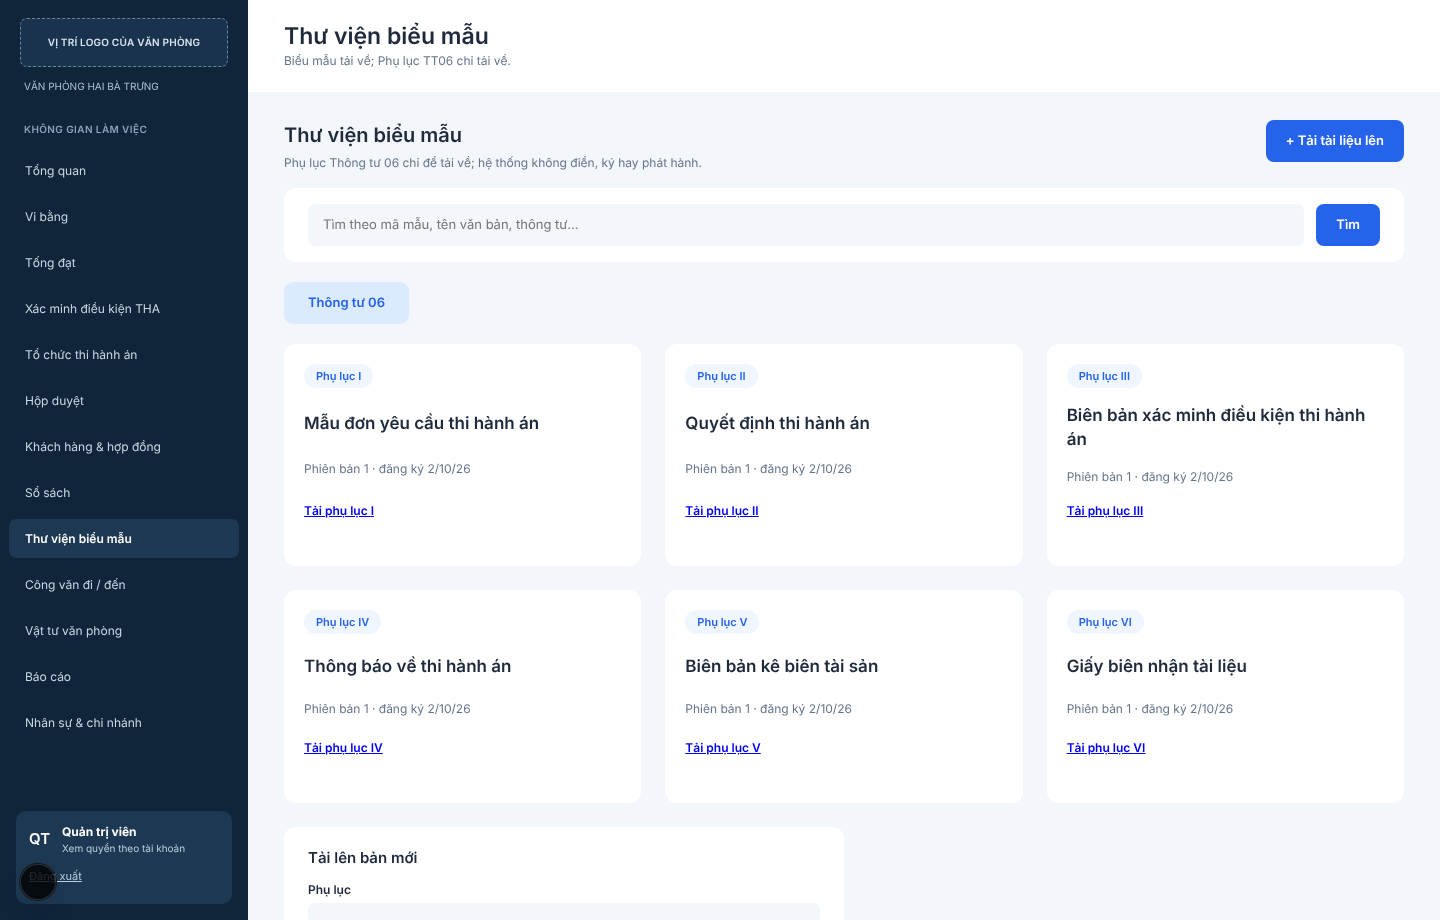
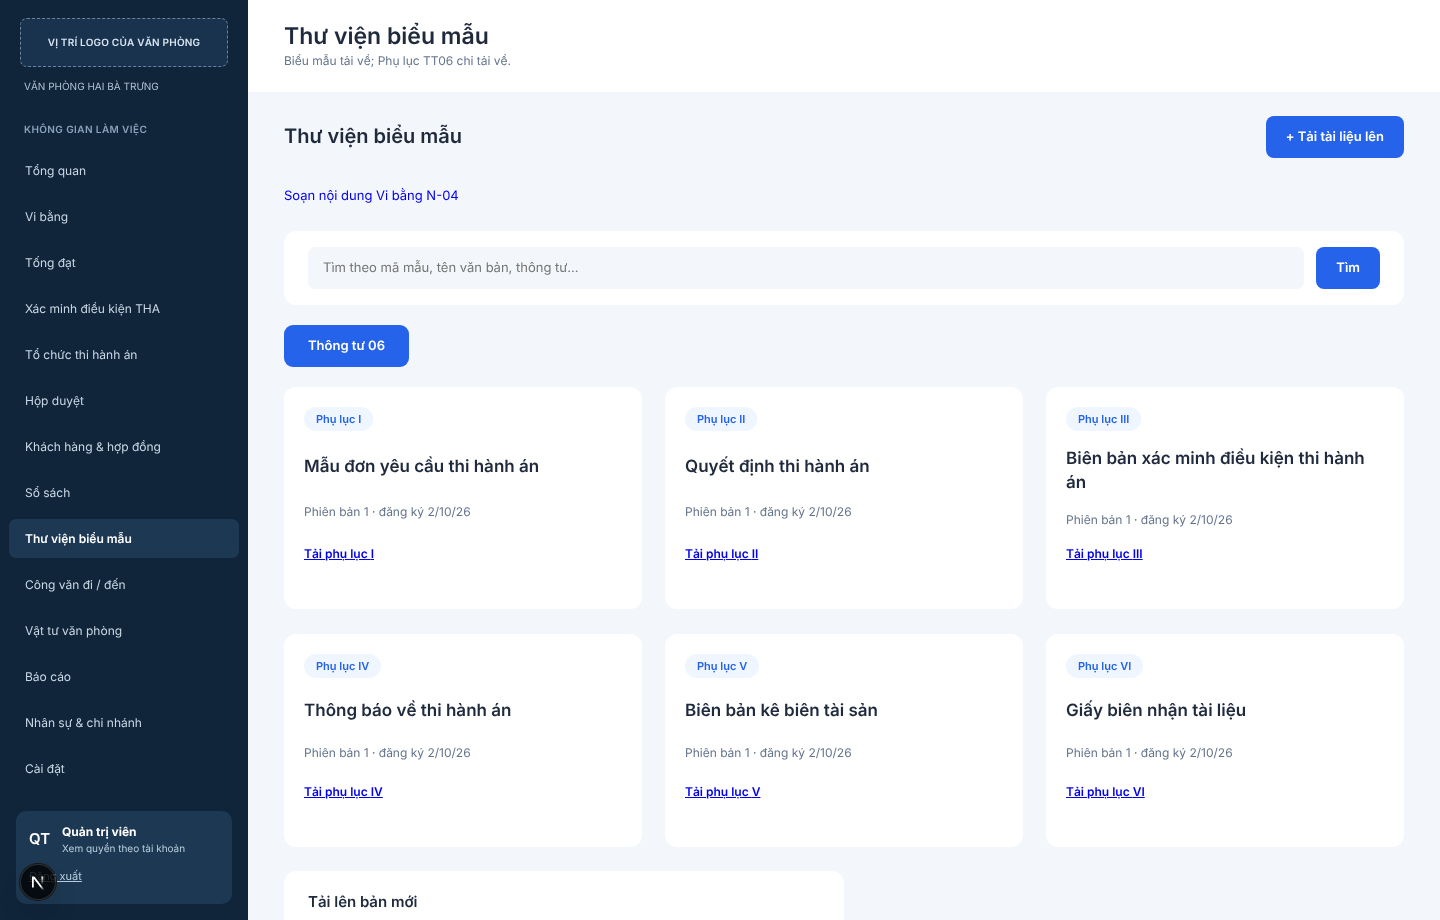
fix(web): khớp số đo Figma lô 3 (biểu mẫu, công văn, vật tư, báo cáo) và thêm thẻ số liệu báo cáo (#128)
Claude-Session: https://claude.ai/code/session_01TuayhBfCeqvzC4WVhHb6qe

diff --git a/apps/web/app/bao-cao/page.tsx b/apps/web/app/bao-cao/page.tsx
@@ -1,4 +1,5 @@
 import Link from 'next/link';
+import { StatCard } from '../../components/StatCard';
 import { ReportExport } from '../../components/ReportExport';
 import { API_URL, currentSession, requestCookie } from '../../lib/server';
 import { REPORT_DOMAIN_LABEL, REPORT_UNIT_LABEL, reportStatusLabel } from '../../lib/messages';
@@ -79,6 +80,15 @@ export default async function ReportPage({
             String(r.total),
           ]),
         ];
+  const cases =
+    rows === 'error' ? [] : rows.filter((r) => r.domain === 'VIBANG' && r.unit === 'CASE');
+  const caseTotal = cases.reduce((n, r) => n + r.total, 0);
+  const caseReturned = cases
+    .filter((r) => r.status === 'RETURNED')
+    .reduce((n, r) => n + r.total, 0);
+  const caseCancelled = cases
+    .filter((r) => r.status === 'CANCELLED')
+    .reduce((n, r) => n + r.total, 0);
   const max = rows === 'error' ? 0 : Math.max(1, ...rows.map((r) => r.total));
   return (
     <section aria-labelledby="t">
@@ -94,7 +104,24 @@ export default async function ReportPage({
           <ReportExport rows={table} filename={`bao-cao-${from}-${to}.csv`} />
         ) : null}
       </div>
-      <div className="panels">
+      {rows !== 'error' && cases.length > 0 ? (
+        <div className="stats">
+          <StatCard label="Vi bằng đã lập" value={caseTotal} note="Hồ sơ tạo trong kỳ đã chọn" />
+          <StatCard
+            label="Đã trả kết quả"
+            value={caseReturned}
+            note="Không tính đã thông báo"
+            tone="green"
+          />
+          <StatCard
+            label="Chưa hoàn tất"
+            value={caseTotal - caseReturned - caseCancelled}
+            note="Chờ ký, scan hoặc bàn giao"
+            tone="amber"
+          />
+        </div>
+      ) : null}
+      <div className="panels report-grid">
         <div className="panel">
           <h2>Số lượng theo nghiệp vụ</h2>
           {rows === 'error' ? (
@@ -173,7 +200,9 @@ export default async function ReportPage({
               ))}
             </select>
           </label>
-          <button type="submit">Xem</button>
+          <button type="submit" className="primary">
+            Xem
+          </button>
         </form>
       </div>
     </section>

diff --git a/apps/web/app/globals.css b/apps/web/app/globals.css
@@ -361,7 +361,7 @@ table {
 }
 th,
 td {
-  padding: 24px 18px;
+  padding: 28px 18px;
   text-align: left;
   vertical-align: middle;
   background: var(--surface);
@@ -506,6 +506,12 @@ th a:hover {
   grid-template-columns: repeat(auto-fit, minmax(200px, 1fr));
   margin-bottom: 24px;
 }
+@media (min-width: 900px) {
+  .stats:has(> :nth-child(3):last-child) {
+    grid-template-columns: 346fr 346fr 375fr;
+    gap: 25px;
+  }
+}
 .stats-top {
   margin-top: 6px;
 }
@@ -518,7 +524,7 @@ th a:hover {
 .stat {
   position: relative;
   min-height: 116px;
-  padding: 20px 20px 16px 30px;
+  padding: 20px 20px 12px 30px;
   background: var(--surface);
   border-radius: var(--radius);
 }
@@ -1008,7 +1014,7 @@ tr[data-selected='true'] > td {
 }
 .template-grid {
   display: grid;
-  gap: 24px;
+  gap: 25px 23px;
   margin: 0 0 24px;
   padding: 0;
   list-style: none;
@@ -1156,4 +1162,12 @@ tr[data-selected='true'] > td {
 .contact-rows li {
   min-height: 44px;
   font-size: 12px;
+}
+
+/* Báo cáo (Figma 3:340): biểu đồ 721 + bộ lọc 376 */
+@media (min-width: 900px) {
+  .report-grid {
+    grid-template-columns: minmax(0, 721fr) minmax(0, 376fr);
+    gap: 19px;
+  }
 }

diff --git a/apps/web/app/cong-van/page.tsx b/apps/web/app/cong-van/page.tsx
@@ -100,8 +100,7 @@ export default async function CorrespondencePage({
     <section aria-labelledby="t">
       <div className="page-head">
         <div>
-          <h1 id="t">Công văn</h1>
-          <p className="muted">Công văn đến và đi trong phạm vi quyền của bạn.</p>
+          <h1 id="t">Công văn đi / đến</h1>
         </div>
         <a className="primary btn-link" href="#tao-van-ban">
           + Tạo văn bản

diff --git a/apps/web/app/bieu-mau/page.tsx b/apps/web/app/bieu-mau/page.tsx
@@ -60,9 +60,6 @@ export default async function FormsPage({
       <div className="page-head">
         <div>
           <h1 id="t">Thư viện biểu mẫu</h1>
-          <p className="muted">
-            Phụ lục Thông tư 06 chỉ để tải về; hệ thống không điền, ký hay phát hành.
-          </p>
         </div>
         {officeId && canRegister ? (
           <a className="primary btn-link" href="#dang-ky">

diff --git a/apps/web/app/vat-tu/page.tsx b/apps/web/app/vat-tu/page.tsx
@@ -74,7 +74,6 @@ export default async function SuppliesPage() {
       <div className="page-head">
         <div>
           <h1 id="t">Vật tư văn phòng</h1>
-          <p className="muted">Tồn kho theo chi nhánh, quản lý theo lô nhập. Không có giá.</p>
         </div>
         {officeId && canManage ? (
           <a className="primary btn-link" href="#nhap-vat-tu">
